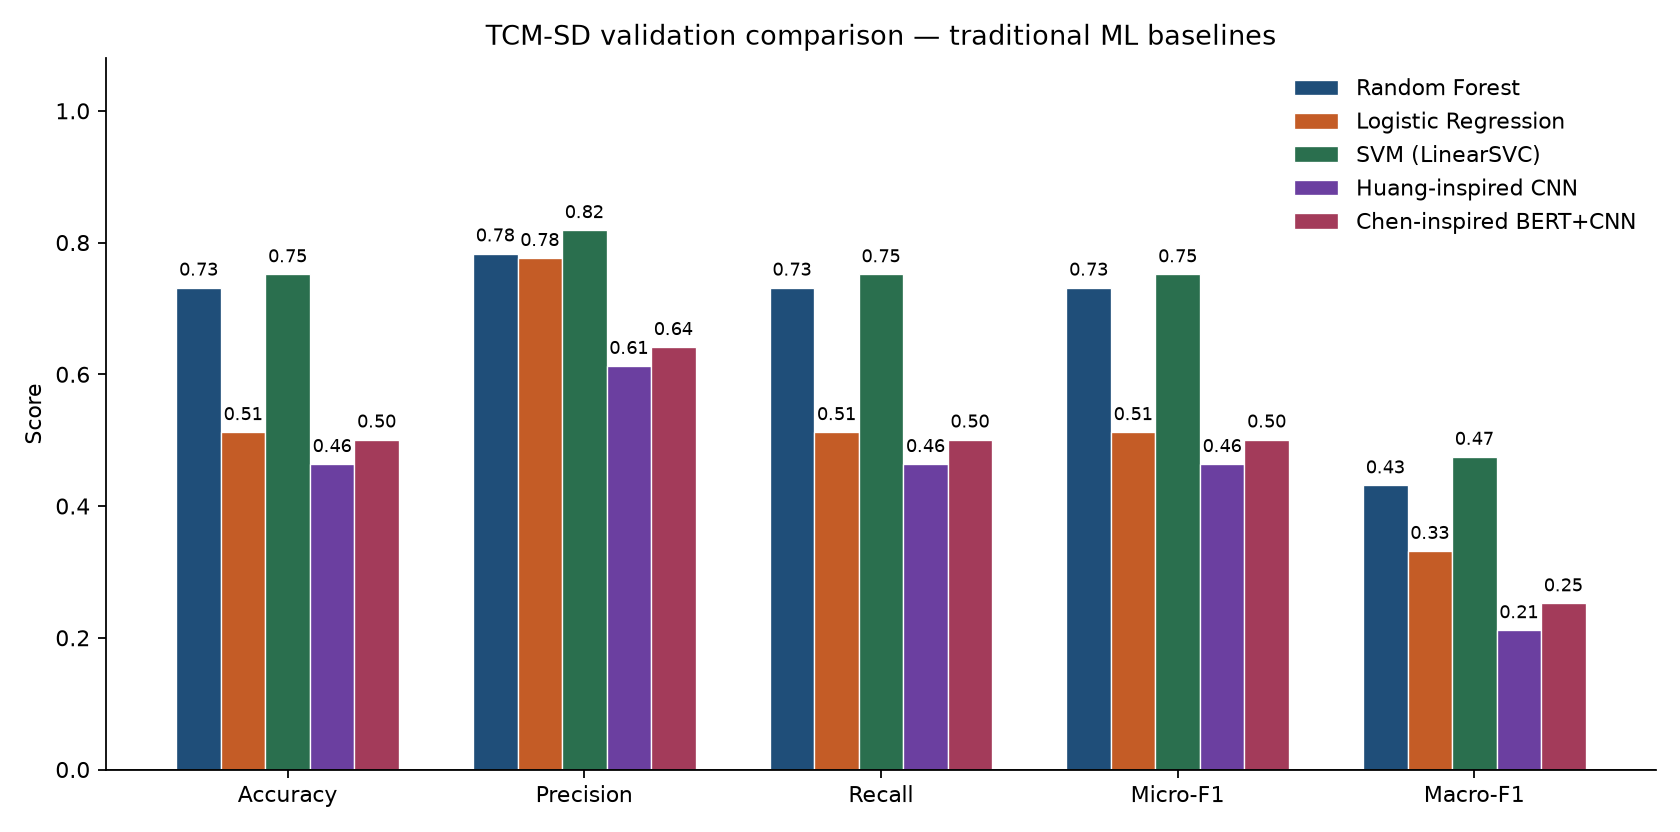
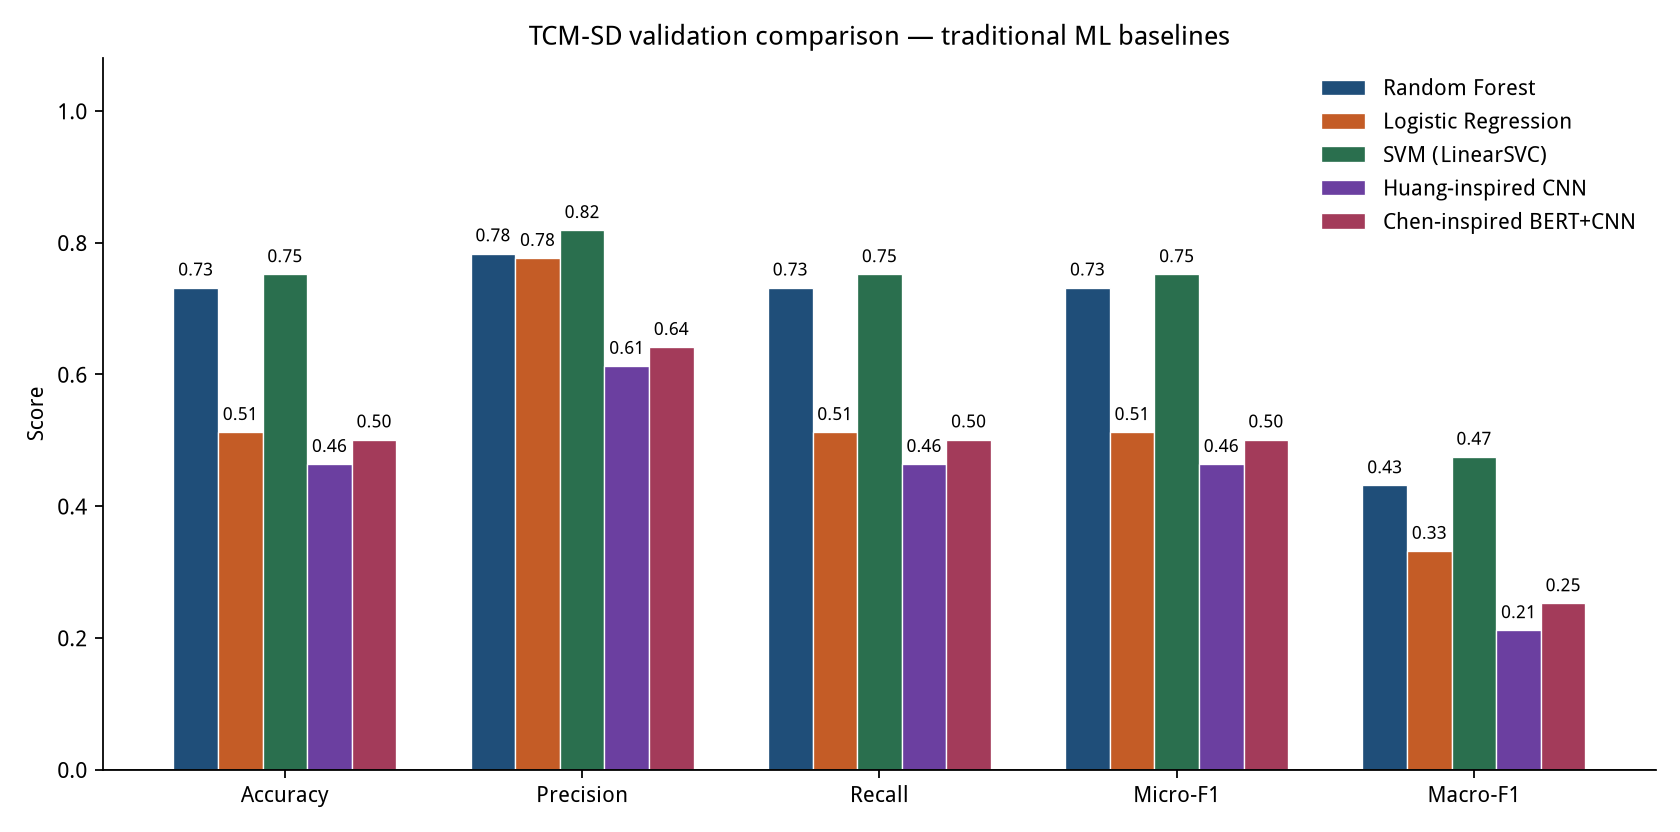
Harden install path and verify ML pipeline smoke tests
Add requirements.txt (with requirements-ml alias), expand README with the
research question, parent papers, dataset link, methods, measured results,
and run instructions; add scripts/smoke_test_ml.py after confirming install,
dataset reachability, leakage checks, and reproducible comparison/final plots.

diff --git a/scripts/smoke_test_ml.py b/scripts/smoke_test_ml.py
@@ -1,0 +1,138 @@
+#!/usr/bin/env python3
+"""End-to-end smoke checks for the TCM-SD ML pipeline (no full retrain)."""
+
+from __future__ import annotations
+
+import json
+import sys
+import urllib.request
+from pathlib import Path
+
+ROOT = Path(__file__).resolve().parents[1]
+sys.path.insert(0, str(ROOT))
+
+
+def _ok(msg: str) -> None:
+    print(f"[OK] {msg}")
+
+
+def _fail(msg: str) -> None:
+    print(f"[FAIL] {msg}", file=sys.stderr)
+    raise SystemExit(1)
+
+
+def check_dataset_link() -> None:
+    url = "https://github.com/Borororo/ZY-BERT"
+    with urllib.request.urlopen(url, timeout=30) as resp:
+        if resp.status != 200:
+            _fail(f"Dataset page HTTP {resp.status}: {url}")
+    raw = "https://raw.githubusercontent.com/Borororo/ZY-BERT/main/test.json"
+    with urllib.request.urlopen(raw, timeout=60) as resp:
+        chunk = resp.read(64)
+        if not chunk:
+            _fail(f"Empty download from {raw}")
+    _ok("Public dataset link and raw test.json are reachable")
+
+
+def check_local_data() -> None:
+    raw = ROOT / "data" / "raw" / "TCM-SD"
+    for name in ("test.json", "TCM_SD_train_dev.zip"):
+        if not (raw / name).exists():
+            _fail(f"Missing {raw / name}; run bash scripts/download_tcm_sd.sh")
+    # train.json may need unzip
+    from tcm_ml.load import load_tcm_sd
+
+    df = load_tcm_sd(ROOT)
+    if len(df) < 50000:
+        _fail(f"Unexpected row count after load: {len(df)}")
+    _ok(f"Loaded TCM-SD locally ({len(df)} rows)")
+
+
+def check_splits_and_leakage() -> None:
+    import pandas as pd
+    from tcm_ml.checks import assert_no_feature_label_leakage, assert_no_split_overlap
+    from tcm_ml.load import TEXT_FEATURE_COLS
+
+    processed = ROOT / "data" / "processed"
+    parts = {
+        name: pd.read_parquet(processed / f"{name}_rows.parquet")
+        for name in ("train", "validation", "test")
+    }
+    overlap = assert_no_split_overlap(parts)
+    leakage = assert_no_feature_label_leakage(TEXT_FEATURE_COLS)
+    if not overlap["ok"] or not leakage["ok"]:
+        _fail(f"Leakage/overlap failed: {overlap} {leakage}")
+    _ok("Split overlap and feature-leakage checks passed")
+
+
+def check_results_present() -> None:
+    need = [
+        ROOT / "results" / "metrics" / "model_comparison.csv",
+        ROOT / "results" / "figures" / "model_comparison.png",
+        ROOT / "results" / "metrics" / "final_test_summary.json",
+        ROOT / "results" / "figures" / "final_f1_comparison.png",
+        ROOT / "docs" / "final_evaluation.md",
+    ]
+    for path in need:
+        if not path.exists():
+            _fail(f"Missing expected artifact: {path}")
+    summary = json.loads((ROOT / "results" / "metrics" / "final_test_summary.json").read_text())
+    if summary.get("selection", {}).get("model") != "svm":
+        _fail(f"Unexpected selected model in final summary: {summary.get('selection')}")
+    _ok("Core results / graphs / final evaluation artifacts present")
+
+
+def check_svm_predict() -> None:
+    from tcm_ml.svm import SyndromeSVMPipeline
+
+    model_dir = ROOT / "artifacts" / "models" / "svm"
+    if not (model_dir / "syndrome_svm_pipeline.joblib").exists():
+        # Fall back: model-only + preprocessor must exist for training path
+        if not (model_dir / "svm_model.joblib").exists():
+            _fail("Missing SVM artifacts; run python scripts/train_svm.py")
+        _ok("SVM model joblib present (pipeline missing but model available)")
+        return
+    pipe = SyndromeSVMPipeline.load(model_dir)
+    out = pipe.predict_records(
+        [
+            {
+                "chief_complaint": "头痛，头晕",
+                "description": "患者头痛头晕三日，伴恶心。",
+                "detection": "舌淡红，苔薄白，脉弦。",
+            }
+        ]
+    )
+    if not out or "predicted_norm_syndrome" not in out[0]:
+        _fail(f"Unexpected SVM predict output: {out}")
+    _ok(f"SVM predict works → {out[0]['predicted_norm_syndrome']}")
+
+
+def check_compare_and_final() -> None:
+    from tcm_ml.compare_models import write_model_comparison
+    from tcm_ml.final_evaluation import select_best_model, verify_integrity
+
+    paths = write_model_comparison(ROOT)
+    for key in ("csv", "figure"):
+        if not Path(paths[key]).exists():
+            _fail(f"compare_models missing {key}: {paths[key]}")
+    decision = select_best_model(ROOT)
+    integrity = verify_integrity(ROOT)
+    if decision["selected_model"] != "svm":
+        _fail(f"Selection mismatch: {decision['selected_model']}")
+    if not integrity["ok"]:
+        _fail(f"Integrity failed: {integrity}")
+    _ok("compare_models + selection/integrity helpers reproduce")
+
+
+def main() -> None:
+    check_dataset_link()
+    check_local_data()
+    check_splits_and_leakage()
+    check_results_present()
+    check_svm_predict()
+    check_compare_and_final()
+    print("\nAll smoke tests passed.")
+
+
+if __name__ == "__main__":
+    main()

diff --git a/README.md b/README.md
@@ -1,56 +1,120 @@
-# Si Zhen Desk · DS340W
+# Si Zhen Desk · DS340W TCM Syndrome Classification
 
-Teaching workbench for traditional Chinese medicine (TCM) **syndrome differentiation** (辨证). You chart signs from the four examinations (四诊); the desk returns every pattern that fits instead of forcing one class.
+Teaching workbench and machine-learning study for traditional Chinese medicine (TCM) **syndrome differentiation** (辨证).
 
-Educational instrument only. It does **not** diagnose, prescribe, or replace a licensed clinician.
+Educational / research instrument only. It does **not** diagnose, prescribe, or replace a licensed clinician.
 
-**GitHub home:** [github.com/shiyx1224-shi/tcm-project](https://github.com/shiyx1224-shi/tcm-project)
+**GitHub:** [github.com/shiyx1224-shi/tcm-project](https://github.com/shiyx1224-shi/tcm-project)
 
-## Public research dataset (required link)
+---
 
-**Dataset:** TCM-SD (54,152 real clinical records → 148 syndrome labels)  
-**Public link:** https://github.com/Borororo/ZY-BERT  
-**License:** CC BY-NC-SA 4.0 (dataset; non-commercial research with attribution)  
-**Paper:** Ren et al., CCL 2022 — https://aclanthology.org/2022.ccl-1.80/  
-**Local copy / schema / download steps:** [`DATASET.md`](DATASET.md) · files under `data/raw/TCM-SD/`  
-**Re-download:** `bash scripts/download_tcm_sd.sh`  
-**EDA notebook (no training):** [`notebooks/01_data_exploration.ipynb`](notebooks/01_data_exploration.ipynb)  
-**Split + preprocess:** [`docs/preprocessing.md`](docs/preprocessing.md) · `python scripts/run_preprocess.py`  
-**Random Forest baseline (multiclass):** [`docs/random_forest.md`](docs/random_forest.md) · `python scripts/train_random_forest.py` · `python scripts/predict_syndrome.py`  
-**Logistic Regression (same split/features):** [`docs/logistic_regression.md`](docs/logistic_regression.md) · `python scripts/train_logistic_regression.py`  
-**SVM / LinearSVC (same split/features):** [`docs/svm.md`](docs/svm.md) · `python scripts/train_svm.py`  
-**Model comparison:** [`docs/model_comparison.md`](docs/model_comparison.md) · `results/metrics/model_comparison.csv` · `results/figures/model_comparison.png` · `python scripts/compare_models.py`  
-**Feature selection experiment:** [`docs/feature_selection_experiment.md`](docs/feature_selection_experiment.md) · `python scripts/run_feature_selection_experiment.py`  
-**Huang-inspired CNN (adapted Cross-FGCNN):** [`docs/huang_cnn.md`](docs/huang_cnn.md) · `python scripts/train_huang_cnn.py`  
-**Chen-inspired BERT+CNN (adapted TCM-BERT-CNN):** [`docs/chen_bert_cnn.md`](docs/chen_bert_cnn.md) · `python scripts/train_chen_bert_cnn.py`  
-**Final evaluation (validation selection → held-out test):** [`docs/final_evaluation.md`](docs/final_evaluation.md) · `python scripts/run_final_evaluation.py`
+## Research question
 
-## Parent papers
+> How accurately can machine learning models classify TCM syndromes based on patients’ symptoms and clinical data?
 
-| # | Paper | What this desk takes |
-|---|-------|----------------------|
-| 1 | Gong, Jiang, Chen, and Qi. *A syndrome differentiation model of TCM based on multi-label deep forest using biomedical text mining.* Frontiers in Genetics, 2023. [doi:10.3389/fgene.2023.1272016](https://doi.org/10.3389/fgene.2023.1272016) | Multi-label syndromes; synonym-normalized symptoms; set metrics (Hamming, one-error, AP) on small charts |
-| 2 | Huang, Miao, Chen, Zhong, Yang, Ma, and Wen. *A traditional Chinese medicine syndrome classification model based on cross-feature generation by convolution neural network.* JMIR Medical Informatics, 2022. [doi:10.2196/29290](https://doi.org/10.2196/29290) | Four-examination structure; sparse tongue/pulse; named cross features; dysmenorrhea pattern family |
-| 3 | Chen, Zhang, Liu, Wang, Jin, Yang, and Zhang. *Traditional Chinese medicine diagnostic prediction model for holistic syndrome differentiation based on deep learning.* Integrative Medicine Research, 2024. [doi:10.1016/j.imr.2023.101019](https://doi.org/10.1016/j.imr.2023.101019) | Holistic principles/organs/pathology; competing pairs (exterior–interior, cold–heat, deficiency–excess); symptom co-occurrence view |
+This repo answers that question on the **public TCM-SD** benchmark with a leakage-aware 70/10/20 split, traditional ML baselines, feature-selection ablations, parent-paper–inspired deep models (adaptations, not exact reproductions), and a locked held-out **test** evaluation of the validation winner.
 
-The live score is a **weighted pattern profile**, not a retrained deep forest, CNN, or BERT model. Hospital and guideline corpora from the papers are not in this repository; published accuracies are not claimed here.
+---
 
-## App surfaces
+## Three verified parent papers
 
-- **Chart** — select symptoms by examination, or parse a free-text description into the dictionary
-- **Sample charts** — original teaching narratives (kidney, stomach, dysmenorrhea, holistic)
-- **Pattern atlas** — which key signs travel together
-- **Teaching lab** — multi-label metrics vs overlap / ML-kNN baselines on the teaching set
-- **Parent papers** — how each study maps onto the desk
+| # | Citation | Method borrowed |
+|---|----------|-----------------|
+| 1 | Gong, Jiang, Chen, and Qi. *A syndrome differentiation model of TCM based on multi-label deep forest using biomedical text mining.* Frontiers in Genetics, 2023. [doi:10.3389/fgene.2023.1272016](https://doi.org/10.3389/fgene.2023.1272016) | Multi-label framing; Pearson-inspired symptom ranking (PCC-MLRF **adapted**; full MLDF not used — TCM-SD is multiclass) |
+| 2 | Huang, Miao, Chen, Zhong, Yang, Ma, and Wen. *A traditional Chinese medicine syndrome classification model based on cross-feature generation by convolution neural network.* JMIR Medical Informatics, 2022. [doi:10.2196/29290](https://doi.org/10.2196/29290) | Cross network + FGCNN-style CNN (**AdaptedCrossFGCNN**; not Huang’s 60-field dysmenorrhea data) |
+| 3 | Chen, Zhang, Liu, Wang, Jin, Yang, and Zhang. *Traditional Chinese medicine diagnostic prediction model for holistic syndrome differentiation based on deep learning.* Integrative Medicine Research, 2024. [doi:10.1016/j.imr.2023.101019](https://doi.org/10.1016/j.imr.2023.101019) | BERT + TextCNN over clinical text (**adapted** frozen Chinese BERT-family encoder; not Chen’s 21-label constraint head) |
 
-## Lenses
+Full methodology notes: [`docs/parent_papers.md`](docs/parent_papers.md).
 
-- **Holistic** — eight principles, organ location, and pathology
-- **Kidney disease** — spleen-kidney yang/yin deficiency, liver-kidney yin deficiency, damp turbidity (may co-exist)
-- **Stomach disease** — deficiency cold, liver-stomach disharmony, stomach yin deficiency, damp-heat, food stagnation
-- **Dysmenorrhea** — nine period-pain patterns, including mixed cold, stasis, deficiency, and damp-heat
+---
 
-## Run locally
+## Public dataset link
+
+| Item | Value |
+|------|-------|
+| **Dataset** | TCM-SD (54,152 clinical records → 148 `norm_syndrome` labels) |
+| **Public link** | **https://github.com/Borororo/ZY-BERT** |
+| **License** | CC BY-NC-SA 4.0 (dataset; non-commercial research with attribution) |
+| **Paper** | Ren et al., CCL 2022 — https://aclanthology.org/2022.ccl-1.80/ |
+| **Local path** | `data/raw/TCM-SD/` |
+| **Details** | [`DATASET.md`](DATASET.md) |
+
+```bash
+bash scripts/download_tcm_sd.sh
+```
+
+---
+
+## Methods (ML track)
+
+1. **Leakage-aware split** — 70% train / 10% validation / 20% test by patient + clinical-text fingerprint groups (`random_state=42`).
+2. **Train-only preprocessing** — char TF-IDF + length features + bins; `SelectKBest(chi2, k=5000)` fit on train only.
+3. **Traditional ML** — Random Forest, Logistic Regression, Linear SVM on the same matrices.
+4. **Feature selection ablation** — variance truncate vs mutual information / ExtraTrees importance / Gong-inspired Pearson filter (train labels only).
+5. **Deep adaptations** — Huang-inspired Cross-FGCNN; Chen-inspired BERT+TextCNN.
+6. **Final protocol** — choose best model by **validation micro-F1**, then score **test once**.
+
+---
+
+## Experimental results (measured)
+
+Validation leaderboard (`results/metrics/model_comparison.csv`):
+
+| Model | Accuracy | Micro-F1 | Macro-F1 |
+|-------|---------:|---------:|---------:|
+| **SVM (LinearSVC)** | **0.7517** | **0.7517** | **0.4745** |
+| Random Forest | 0.7314 | 0.7314 | 0.4312 |
+| Logistic Regression | 0.5120 | 0.5120 | 0.3316 |
+| Chen-inspired BERT+CNN | 0.5007 | 0.5007 | 0.2521 |
+| Huang-inspired CNN | 0.4635 | 0.4635 | 0.2112 |
+
+**Selected model (validation only): SVM.** Held-out test (n=10,777):
+
+| Split | Accuracy | Precision | Recall | Micro-F1 | Macro-F1 |
+|-------|---------:|----------:|-------:|---------:|---------:|
+| Validation | 0.7517 | 0.8187 | 0.7517 | 0.7517 | 0.4745 |
+| **Test** | **0.7548** | **0.8137** | **0.7548** | **0.7548** | **0.4992** |
+
+Feature selection did **not** uniformly improve micro-F1; adapted deep models did **not** beat TF-IDF SVM/RF on this setup. Full discussion: [`docs/final_evaluation.md`](docs/final_evaluation.md).
+
+Figures: `results/figures/model_comparison.png`, `results/figures/final_*.png`.
+
+---
+
+## Install and run (ML)
+
+```bash
+python -m pip install -r requirements.txt
+bash scripts/download_tcm_sd.sh
+python scripts/run_preprocess.py
+python scripts/check_splits.py
+python scripts/train_random_forest.py
+python scripts/train_logistic_regression.py
+python scripts/train_svm.py
+python scripts/compare_models.py
+python scripts/run_feature_selection_experiment.py   # optional ablation
+python scripts/train_huang_cnn.py                    # optional deep adaptation
+python scripts/train_chen_bert_cnn.py                # optional deep adaptation
+python scripts/run_final_evaluation.py               # validation winner → test once
+python scripts/smoke_test_ml.py                      # link/load/leakage/results smoke check
+```
+
+`requirements-ml.txt` redirects to `requirements.txt` for older commands.
+
+Predict with the selected SVM pipeline (after `train_svm.py`):
+
+```bash
+python scripts/predict_syndrome_svm.py \
+  --chief-complaint "头痛，头晕" \
+  --description "患者头痛头晕三日，伴恶心。" \
+  --detection "舌淡红，苔薄白，脉弦。"
+```
+
+---
+
+## Teaching UI (Si Zhen Desk)
+
+Interactive four-examination desk (not the TCM-SD classifier):
 
 ```bash
 npm install
@@ -60,35 +124,29 @@ npm run dev
 Open [http://127.0.0.1:4317](http://127.0.0.1:4317).
 
 ```bash
-npm run check   # sample-chart rank checks + teaching-set metrics
+npm run check
 npm run lint
 npm run build
 ```
 
-## ML baselines (TCM-SD)
+Surfaces: Chart, Sample charts, Pattern atlas, Teaching lab, Parent papers. Lenses: Holistic / Kidney / Stomach / Dysmenorrhea.
 
-TCM-SD is **single-label multiclass** (one `norm_syndrome` per row). Models share the same leakage-aware 70/10/20 partitions and are scored on validation. **Test is not used for model selection.**
+---
 
-```bash
-pip install -r requirements-ml.txt
-python scripts/run_preprocess.py          # if data/processed is empty
-python scripts/train_random_forest.py
-python scripts/train_logistic_regression.py
-python scripts/train_svm.py
-python scripts/train_huang_cnn.py         # Huang 2022–inspired CNN (adaptation)
-python scripts/train_chen_bert_cnn.py     # Chen 2024–inspired BERT+CNN (adaptation)
-python scripts/compare_models.py
-```
+## Repository hygiene
 
-Artifacts: `artifacts/models/{random_forest,logistic_regression,svm,huang_cnn,chen_bert_cnn}/`.  
-Comparison: `results/metrics/model_comparison.csv`, `results/figures/model_comparison.png`.
+- **Not committed:** `/uploads` (local parent PDFs), extracted `train.json`/`dev.json`, large `*.npz` / row parquets / model `*.joblib`/`*.pt`, caches, `.env*`, tokens.
+- **Committed:** public sample/zip/test.json, metrics CSVs/JSON, figures, docs, training code.
+- Do not add private clinical dumps or API tokens to git.
 
-Feature-selection ablation: `python scripts/run_feature_selection_experiment.py`.  
-Final report (integrity + test for the validation winner): `python scripts/run_final_evaluation.py`.
+---
 
-## Course note (DS340W)
+## Doc index
 
-This is a reproduction-style project: we implement the *ideas* from the three parent papers (multi-label reading, sparse four examinations with crosses, holistic constraints) as an interactive teaching instrument with transparent scoring, not a black-box retrain of their neural models on proprietary clinical data. The Random Forest path above is the first supervised baseline on the public TCM-SD release.
-
-**Research foundation (verified citations, parent-paper methods):** [`docs/parent_papers.md`](docs/parent_papers.md)  
-**Selected public dataset (link, license, features):** [`DATASET.md`](DATASET.md)
+| Doc | Contents |
+|-----|----------|
+| [`DATASET.md`](DATASET.md) | Dataset choice, license, schema, download |
+| [`docs/parent_papers.md`](docs/parent_papers.md) | Verified parent-paper methods |
+| [`docs/preprocessing.md`](docs/preprocessing.md) | Split + preprocess |
+| [`docs/final_evaluation.md`](docs/final_evaluation.md) | Selection, test, discussion |
+| [`docs/huang_cnn.md`](docs/huang_cnn.md) / [`docs/chen_bert_cnn.md`](docs/chen_bert_cnn.md) | Deep adaptations |

diff --git a/DATASET.md b/DATASET.md
@@ -13,6 +13,8 @@ https://tianchi.aliyun.com/dataset/139034
 
 Local copy (downloaded for this project): `data/raw/TCM-SD/`
 
+Install ML deps with `pip install -r requirements.txt`, then `bash scripts/download_tcm_sd.sh`.
+
 This document records verified accessibility, schema, license, and why alternatives were not chosen. **No models are trained here.**
 
 ---

diff --git a/docs/random_forest.md b/docs/random_forest.md
@@ -24,7 +24,7 @@ Default hyperparameters: `n_estimators=100`, `max_depth=40`, `min_samples_leaf=2
 ## Commands
 
 ```bash
-pip install -r requirements-ml.txt
+pip install -r requirements.txt
 python scripts/run_preprocess.py          # if matrices are missing
 python scripts/train_random_forest.py
 python scripts/predict_syndrome.py \

diff --git a/docs/chen_bert_cnn.md b/docs/chen_bert_cnn.md
@@ -64,7 +64,7 @@ Best checkpoint was epoch 2 (val accuracy 0.5007). Trails TF-IDF SVM/RF on this 
 ## Commands
 
 ```bash
-pip install -r requirements-ml.txt
+pip install -r requirements.txt
 python scripts/train_chen_bert_cnn.py
 python scripts/compare_models.py
 ```

diff --git a/docs/preprocessing.md b/docs/preprocessing.md
@@ -28,7 +28,7 @@ Feature selection: `SelectKBest(chi2)` fit on training data only.
 ## Commands
 
 ```bash
-pip install -r requirements-ml.txt
+pip install -r requirements.txt
 # ensure raw JSON exists
 bash scripts/download_tcm_sd.sh
 python scripts/run_preprocess.py

diff --git a/docs/huang_cnn.md b/docs/huang_cnn.md
@@ -46,7 +46,7 @@ TCM-SD text (3 columns)
 ## Commands
 
 ```bash
-pip install -r requirements-ml.txt
+pip install -r requirements.txt
 python scripts/train_huang_cnn.py --epochs 8
 python scripts/compare_models.py
 ```
